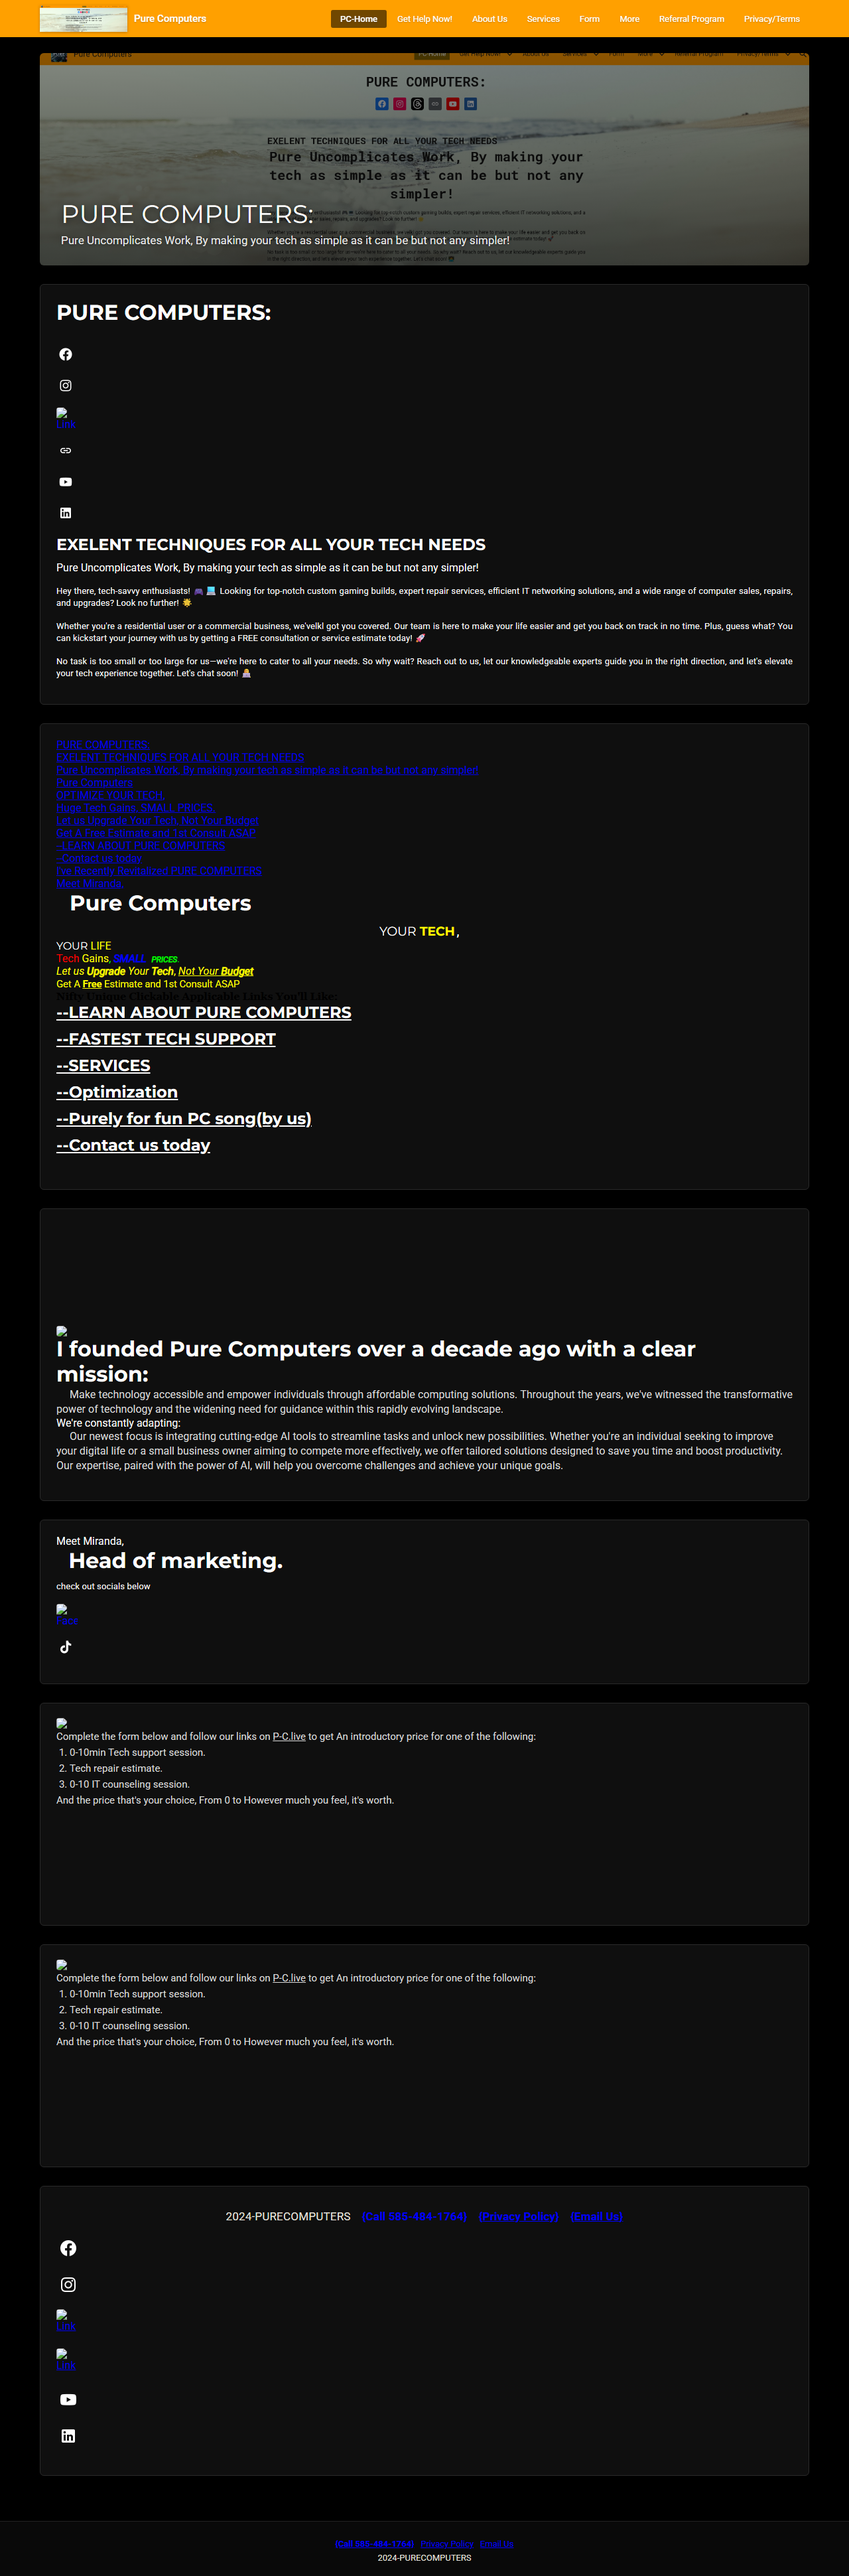
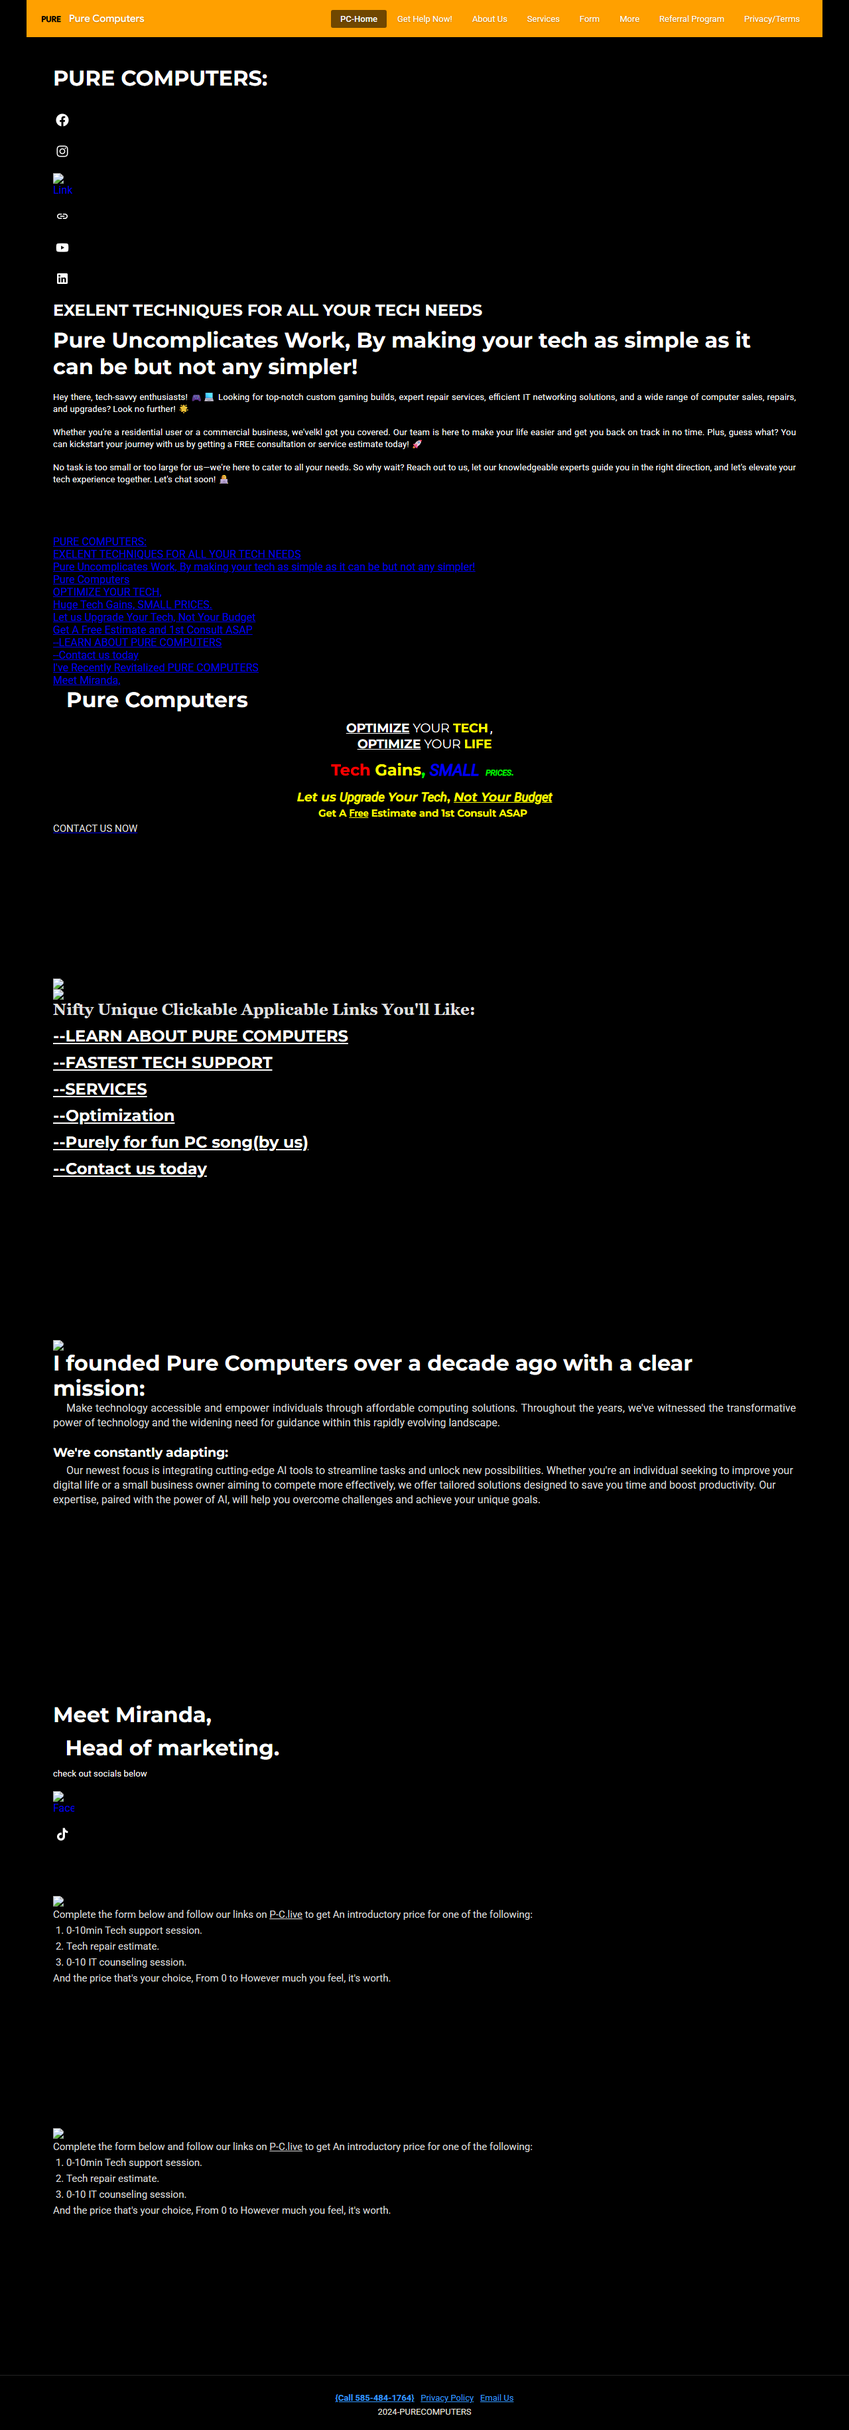
Restore green CTA button styling (QmpIrf/FKF6mc classes)

diff --git a/_layouts/default.html b/_layouts/default.html
@@ -129,6 +129,26 @@
   .page section [style*="color: #000000"],
   .page section [style*="color:#000000"] { color: #e0e0e0 !important; }
 
+  /* Google Sites button classes (stylesheet stripped) -> restore green CTA */
+  .page section .QmpIrf,
+  .page .QmpIrf {
+    background-color: #00ff00 !important;
+    color: #000000 !important;
+  }
+  .page section a.FKF6mc,
+  .page a.FKF6mc {
+    background-color: #00ff00 !important;
+    color: #000000 !important;
+    text-decoration: none !important;
+    display: inline-block;
+    padding: 10px 22px;
+    border-radius: 4px;
+    font-weight: 700;
+    font-family: 'Roboto', Arial, sans-serif;
+  }
+  .page section .QmpIrf p,
+  .page .QmpIrf p { color: #000000 !important; margin: 0; font-weight: 700; }
+
   /* ---------- footer ---------- */
   .site-footer {
     background: #000;
